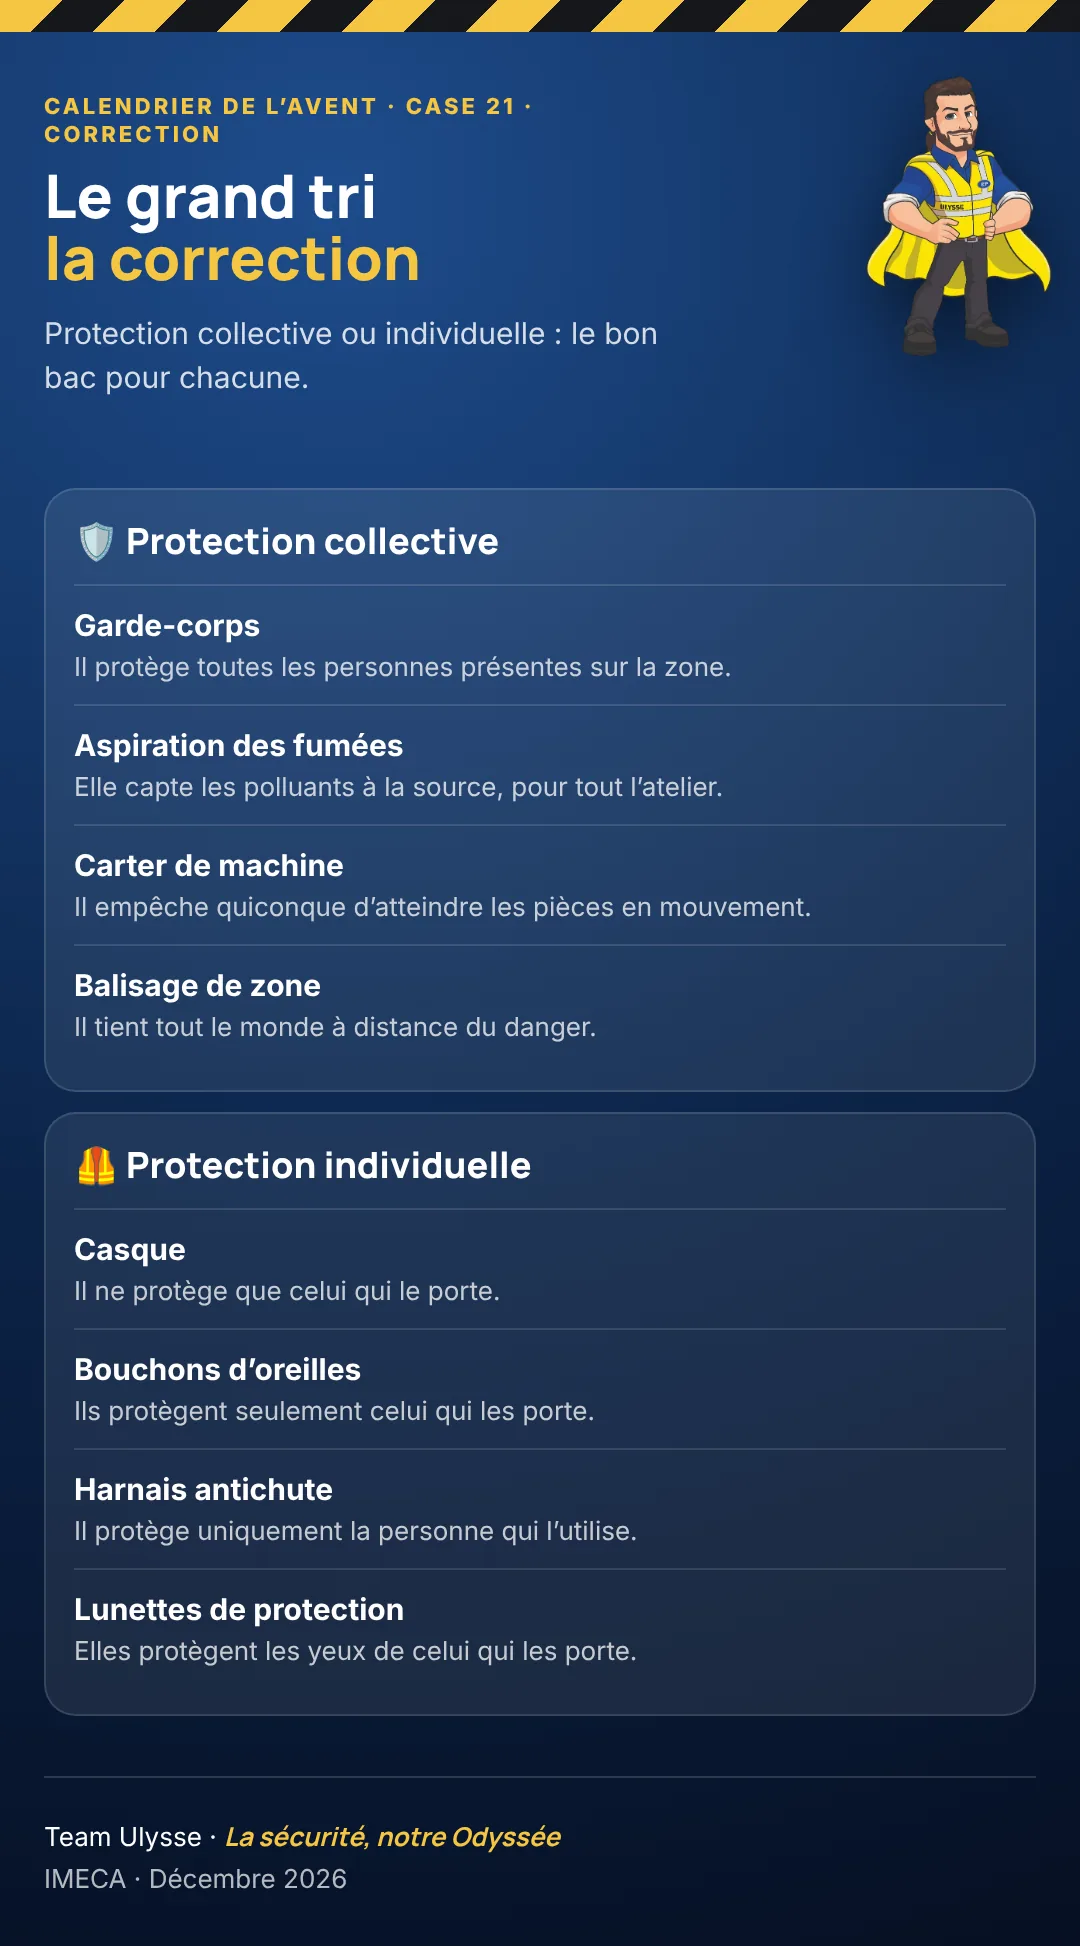
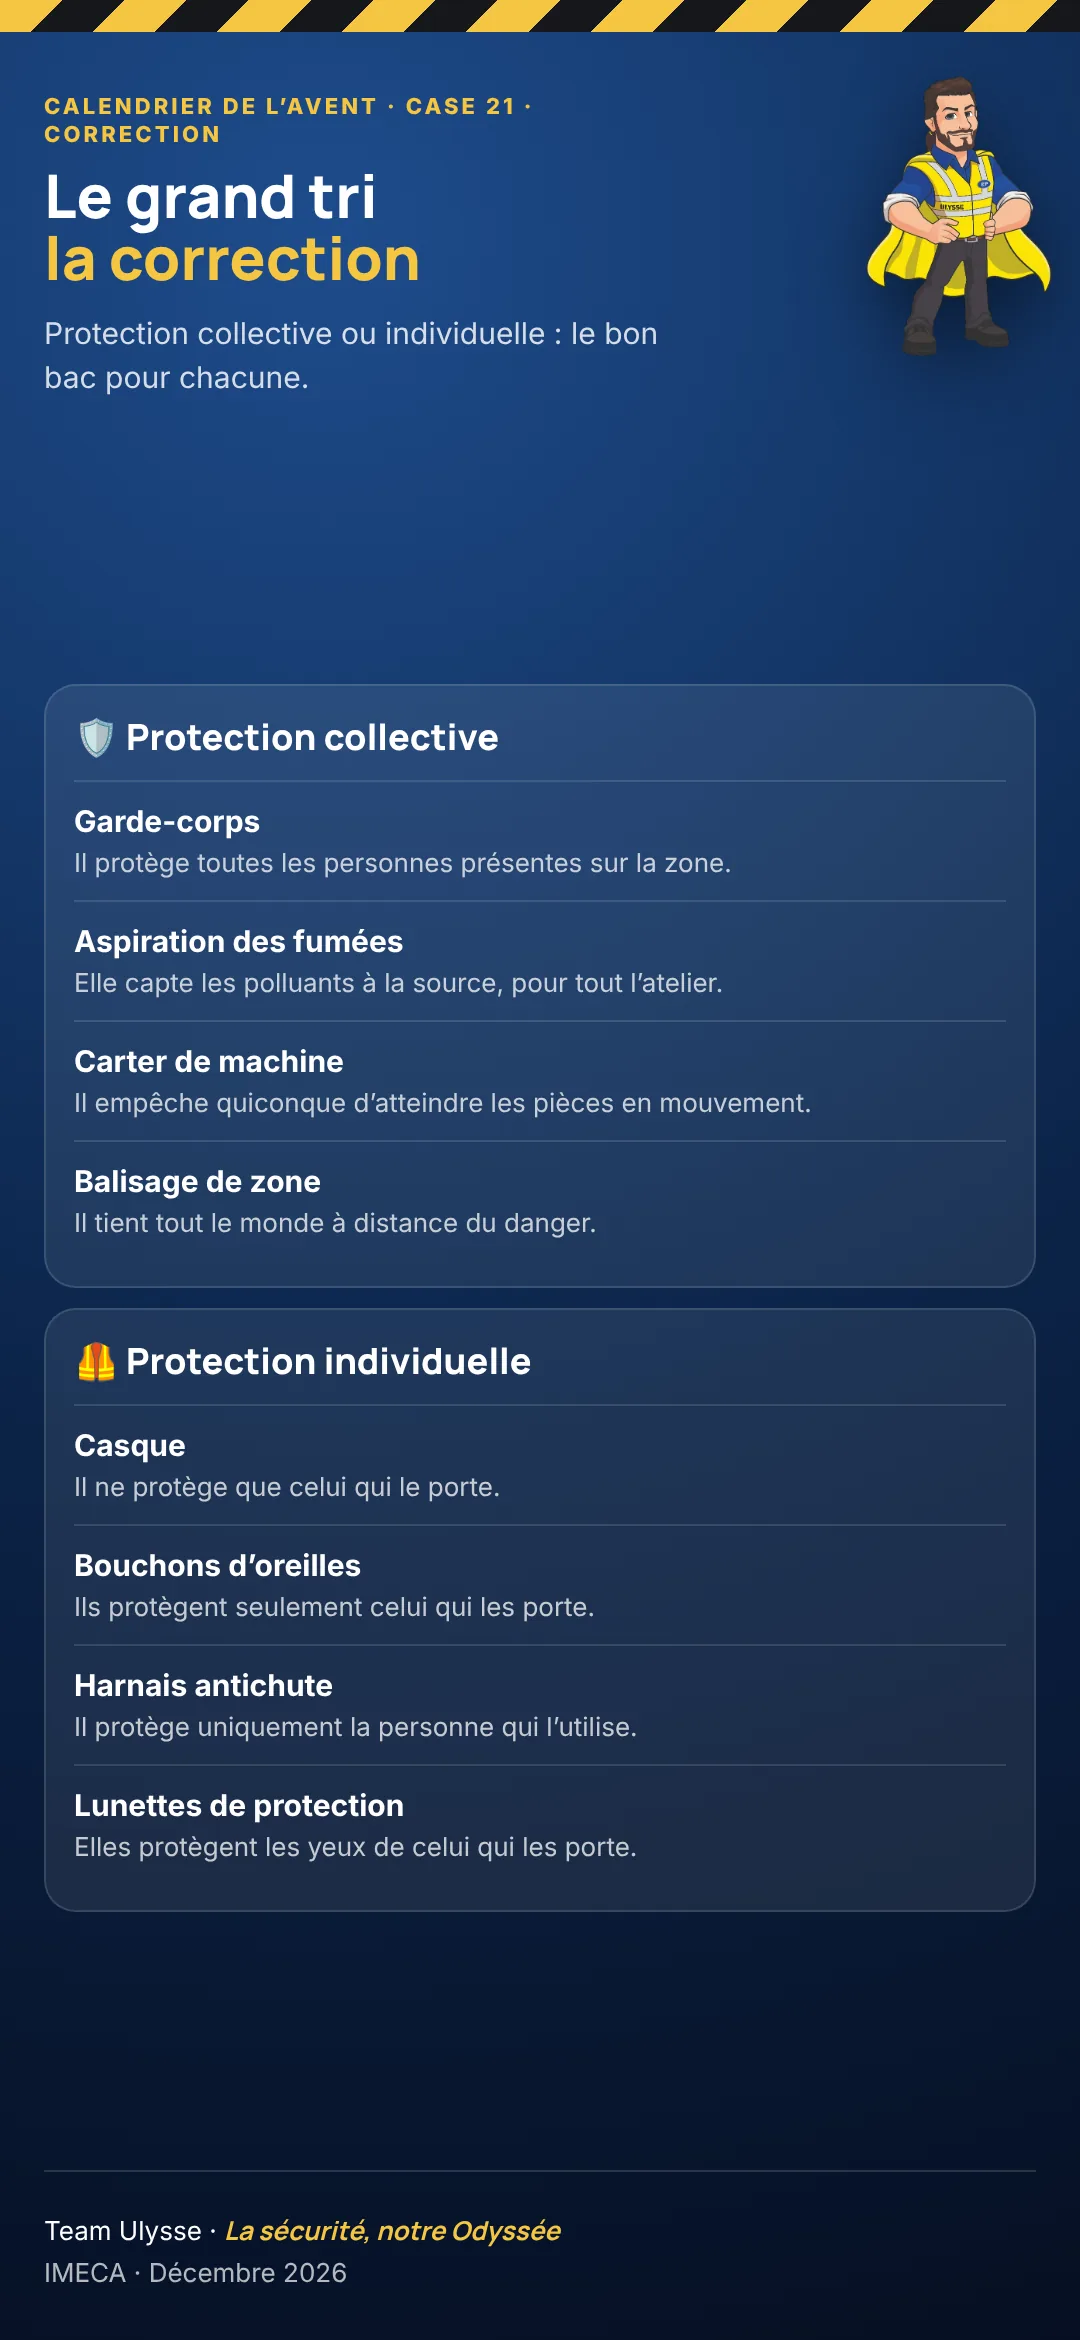
Corrections : remplissent tout l'écran du téléphone
- Les images de correction ont au moins la hauteur d'un écran de
  téléphone : contenu centré, pied de page en bas, plus de bande vide.
- Pendu et mots mêlés : contenu agrandi (le mot DÉFIBRILLATEUR tient
  sur une ligne).
- L'image occupe toujours au moins toute la zone d'affichage.

Claude-Session: https://claude.ai/code/session_01UTW3MaXuG19g7RtJo149UJ

Changed region(s): [[0.0611, 0.2467, 0.7639, 0.8633], [0.0, 0.0, 1.0, 0.2158], [0.0306, 0.925, 0.5194, 0.9866]]

diff --git a/src/avent/Correction.tsx b/src/avent/Correction.tsx
@@ -120,7 +120,7 @@ function PleinEcran({ jour, onClose }: { jour: number; onClose: () => void }) {
         <img
           src={imageCorrection(jour)}
           alt={`Correction de la case ${jour}`}
-          className="mx-auto block w-full max-w-3xl"
+          className="mx-auto block min-h-full w-full max-w-3xl object-cover object-top"
         />
       </div>
     </motion.div>,
